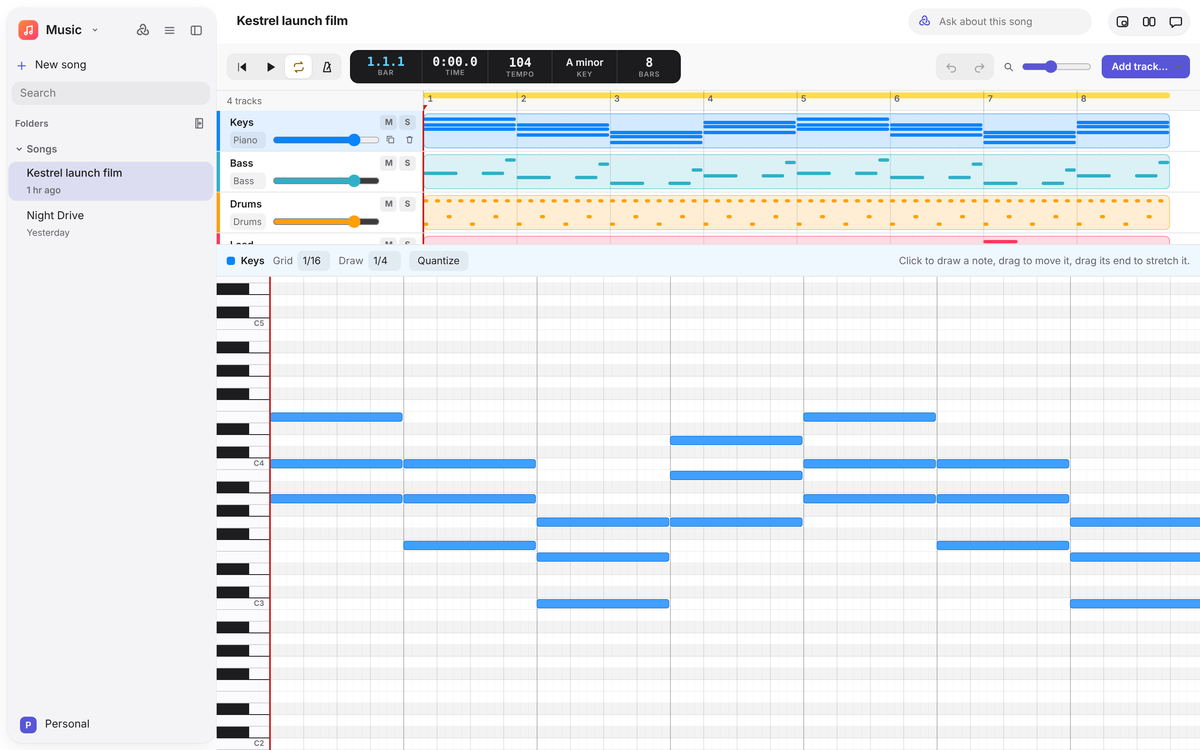
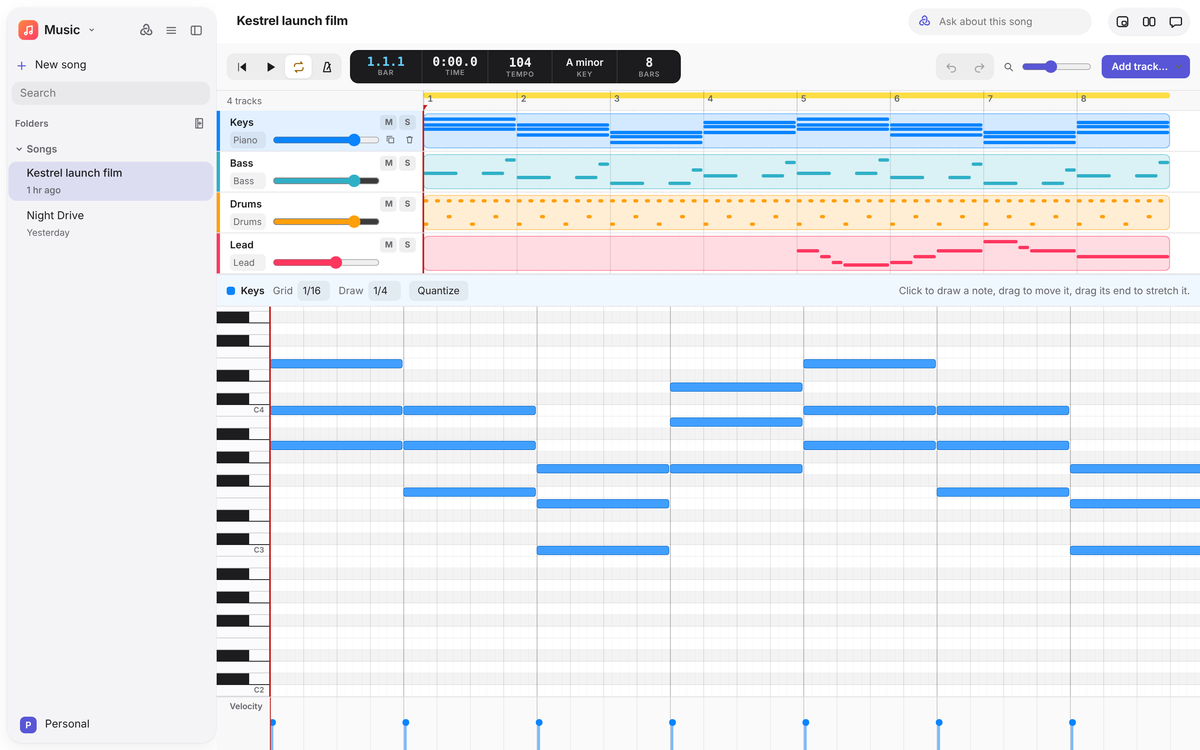
Music: the track list fits its tracks, taller drum rows, and a velocity lane
- The track list is as tall as its tracks (it was squeezed by the roll, hiding the last track), with a divider to drag or
  move with Up/Down, and Home to fit it again.
- Drum rows grow to fill the editor (26 to 40px) with each drum named in full.
- A velocity lane under the roll: a bar per note, dragged up or down; picked notes move together (nudgeVelocity).
- Unit tests for nudgeVelocity and fitTracks, an e2e for the lane, divider and drum rows; README picture and docs retaken.

Claude-Session: https://claude.ai/code/session_01VRGwo92y9AyxCvHYC61ZVd

diff --git a/apps/desktop/src/Studio.tsx b/apps/desktop/src/Studio.tsx
@@ -3,7 +3,7 @@ import { NotesSidebar, newItemIn, type SidebarWords } from './NotesSidebar';
 import { EmptyState } from './EmptyState';
 import { BEATS_PER_BAR, DRUMS, INSTRUMENTS, INSTRUMENT_NAMES, KEYS, changedTracks, freshTrackId, keyPitches, noteName, parseSong, writeSong, type Instrument, type Song, type SongNote, type Track } from './song-format';
 import { play, previewNote, type Player } from './studio-audio';
-import { GRIDS, addNote, duplicateNotes, isBlack, moveNotes, notesIn, pasteNotes, position, quantizeNotes, removeNotes, setVelocity, snap, stretchNotes, type Picked } from './studio-view';
+import { GRIDS, addNote, duplicateNotes, fitTracks, nudgeVelocity, isBlack, moveNotes, notesIn, pasteNotes, position, quantizeNotes, removeNotes, setVelocity, snap, stretchNotes, type Picked } from './studio-view';
 import { useFileReview } from './useFileReview';
 import type { NotesState } from './useNotes';
 import { ReviewActions, WhyThis } from './ReviewBar';
@@ -26,6 +26,13 @@ const ROW_H = 14;
 const MELODY_TOP = 84;
 const MELODY_BOTTOM = 36;
 const ZOOMS = [0.5, 0.75, 1, 1.5, 2, 3];
+/** Drums get taller rows and room for their names, since there are only a few of them. */
+const DRUM_ROW_H = 26;
+const DRUM_KEYS_W = 96;
+/** The velocity lane under the roll. */
+const VEL_H = 64;
+/** The least room left for the note editor when the track list is made taller. */
+const EDITOR_MIN = 200;
 
 const Icon = ({ d, fill }: { d: string; fill?: boolean }) => <svg viewBox="0 0 20 20" aria-hidden="true" data-fill={fill || undefined}><path d={d} /></svg>;
 const ICONS = {
@@ -83,6 +90,25 @@ export function StudioEditor({ songs, review }: { songs: NotesState; review?: { 
   // with the pointer captured by the roll it does not reach the note in every engine.
   const lastPress = useRef<{ i: number; t: number; x: number; y: number } | null>(null);
   const [box, setBox] = useState<{ b0: number; b1: number; r0: number; r1: number } | null>(null);
+  // How tall the track list is, once its divider has been dragged; until then it fits its tracks.
+  const [arrangeH, setArrangeH] = useState<number | null>(null);
+  const [scrollX, setScrollX] = useState(0);
+  // A drag on the velocity lane: which notes, and how much louder or softer so far.
+  const [velDrag, setVelDrag] = useState<{ these: Picked; y: number; by: number } | null>(null);
+  const page = useRef<HTMLElement>(null);
+  const [pageH, setPageH] = useState(840);
+  useEffect(() => {
+    const el = page.current;
+    if (!el) return;
+    // The room under the transport, which can wrap onto two lines in a narrow window.
+    const measure = () => setPageH(el.clientHeight - (el.querySelector<HTMLElement>('.studio-transport')?.offsetHeight ?? 52));
+    const ro = new ResizeObserver(measure);
+    ro.observe(el);
+    const bar = el.querySelector('.studio-transport');
+    if (bar) ro.observe(bar);
+    measure();
+    return () => ro.disconnect();
+  }, [song !== null]); // eslint-disable-line react-hooks/exhaustive-deps
   const [, setTick] = useState(0);
   const player = useRef<Player | null>(null);
   const roll = useRef<HTMLDivElement>(null);
@@ -204,6 +230,10 @@ export function StudioEditor({ songs, review }: { songs: NotesState; review?: { 
   const total = song.bars * BEATS_PER_BAR;
   const inKey = keyPitches(song.key);
   const drums = track?.instrument === 'drums';
+  // Drum rows grow to fill the editor (there are only six), up to a comfortable pad size.
+  const listFor = Math.max(96, Math.min(arrangeH ?? fitTracks(song.tracks.length), Math.max(96, pageH - EDITOR_MIN)));
+  const rowH = drums ? Math.max(DRUM_ROW_H, Math.min(40, Math.floor((pageH - listFor - 1 - 38 - VEL_H - 2) / DRUMS.length))) : ROW_H;
+  const keysW = drums ? DRUM_KEYS_W : KEYS_W;
   const rows = drums ? DRUMS.map((d) => ({ pitch: d.pitch, label: d.name, shade: false, black: false, c: true })) : Array.from({ length: MELODY_TOP - MELODY_BOTTOM + 1 }, (_, i) => MELODY_TOP - i).map((p) => ({ pitch: p, label: noteName(p), shade: !inKey.has(p % 12), black: isBlack(p), c: p % 12 === 0 }));
   const rowOf = (pitch: number) => rows.findIndex((r) => r.pitch === pitch);
   const rbw = ROLL_BEAT_W * zoom;
@@ -250,7 +280,7 @@ export function StudioEditor({ songs, review }: { songs: NotesState; review?: { 
   // ---------- The piano roll's pointer ----------
   const at = (e: { clientX: number; clientY: number }) => {
     const r = inner.current!.getBoundingClientRect();
-    return { beat: Math.max(0, Math.min(total - 1e-6, (e.clientX - r.left - KEYS_W) / rbw)), row: Math.max(0, Math.min(rows.length - 1, Math.floor((e.clientY - r.top) / ROW_H))) };
+    return { beat: Math.max(0, Math.min(total - 1e-6, (e.clientX - r.left - keysW) / rbw)), row: Math.max(0, Math.min(rows.length - 1, Math.floor((e.clientY - r.top) / rowH))) };
   };
   const onRollDown = (e: ReactPointerEvent<HTMLDivElement>) => {
     if (e.button !== 0 || !track) return;
@@ -287,7 +317,7 @@ export function StudioEditor({ songs, review }: { songs: NotesState; review?: { 
     if (!g) return;
     if (g.kind === 'move') {
       const db = Math.round((e.clientX - g.x) / rbw / grid) * grid;
-      const dr = Math.round((e.clientY - g.y) / ROW_H);
+      const dr = Math.round((e.clientY - g.y) / rowH);
       if (db !== g.db || dr !== g.dr || (!g.moved && Math.abs(e.clientX - g.x) + Math.abs(e.clientY - g.y) > 3)) setGesture({ ...g, db, dr, moved: g.moved || Math.abs(e.clientX - g.x) + Math.abs(e.clientY - g.y) > 3 });
     } else if (g.kind === 'stretch') {
       const dl = Math.round((e.clientX - g.x) / rbw / grid) * grid;
@@ -354,10 +384,43 @@ export function StudioEditor({ songs, review }: { songs: NotesState; review?: { 
   // While a note is dragged, the picked notes are drawn where they would land.
   const dragShift = gesture?.kind === 'move' && gesture.moved ? { db: gesture.db, dr: gesture.dr } : null;
   const dragStretch = gesture?.kind === 'stretch' ? gesture.dl : 0;
+  // The track list fits its tracks unless its divider was dragged, and always leaves the editor some room.
+  const room = pageH - EDITOR_MIN;
+  const listH = listFor;
+  const onDividerDown = (e: ReactPointerEvent<HTMLDivElement>) => {
+    if (e.button !== 0) return;
+    e.preventDefault();
+    e.currentTarget.setPointerCapture(e.pointerId);
+    const y = e.clientY, h = listH;
+    const el = e.currentTarget;
+    const move = (m: PointerEvent) => setArrangeH(Math.max(96, Math.min(h + m.clientY - y, Math.max(96, room))));
+    const up = () => { el.removeEventListener('pointermove', move); el.removeEventListener('pointerup', up); el.removeEventListener('pointercancel', up); };
+    el.addEventListener('pointermove', move);
+    el.addEventListener('pointerup', up);
+    el.addEventListener('pointercancel', up);
+  };
+  /** A press on a note's velocity bar: drag up for louder, down for softer; picked notes move together. */
+  const onVelDown = (e: ReactPointerEvent<HTMLElement>, i: number) => {
+    if (e.button !== 0) return;
+    e.preventDefault();
+    e.stopPropagation();
+    const these = picked.has(i) ? picked : new Set([i]);
+    if (!picked.has(i)) setPicked(e.shiftKey ? new Set([...picked, i]) : these);
+    e.currentTarget.setPointerCapture(e.pointerId);
+    setVelDrag({ these: e.shiftKey && !picked.has(i) ? new Set([...picked, i]) : these, y: e.clientY, by: 0 });
+  };
+  const onVelMove = (e: ReactPointerEvent<HTMLElement>) => { if (velDrag) setVelDrag({ ...velDrag, by: Math.round(((velDrag.y - e.clientY) / (VEL_H - 8)) * 100) / 100 }); };
+  const onVelUp = () => {
+    if (!velDrag) return;
+    if (velDrag.by !== 0) setNotes((n) => nudgeVelocity(n, velDrag.these, velDrag.by), 'velocity');
+    setVelDrag(null);
+  };
+  const shownVelocity = (j: number, v: number) => (velDrag && velDrag.these.has(j) ? Math.max(0, Math.min(1, v + velDrag.by)) : v);
+
   const velocity = pickedNotes.length ? pickedNotes.reduce((a, n) => a + n.velocity, 0) / pickedNotes.length : null;
 
   return (
-    <section className="studio-page" aria-label="Music">
+    <section className="studio-page" aria-label="Music" ref={page}>
       <div className="studio-transport" role="toolbar" aria-label="Transport">
         <div className="studio-buttons">
           <button type="button" className="studio-tbtn" aria-label="Go to start" title="Go to start (Return)" onClick={() => seek(0)}><Icon d={ICONS.start} fill /></button>
@@ -390,7 +453,7 @@ export function StudioEditor({ songs, review }: { songs: NotesState; review?: { 
           </select>
         </label>
       </div>
-      <div className="studio-arrange" data-empty={song.tracks.length === 0 || undefined} style={{ ['--head' as string]: `${HEAD_W}px` }}>
+      <div className="studio-arrange" data-empty={song.tracks.length === 0 || undefined} style={{ ['--head' as string]: `${HEAD_W}px`, height: listH }}>
         <div className="studio-ruler-row">
           <div className="studio-ruler-head">{song.tracks.length === 1 ? '1 track' : `${song.tracks.length} tracks`}</div>
           <div
@@ -446,6 +509,19 @@ export function StudioEditor({ songs, review }: { songs: NotesState; review?: { 
           <ReviewActions onKeep={keep} onDiscard={discard} />
         </div>
       )}
+      <div
+        className="studio-divider"
+        role="separator"
+        aria-orientation="horizontal"
+        aria-label="Resize tracks and notes"
+        aria-valuemin={96}
+        aria-valuemax={Math.max(96, room)}
+        aria-valuenow={Math.round(listH)}
+        tabIndex={0}
+        title="Drag to show more tracks or more notes"
+        onPointerDown={onDividerDown}
+        onKeyDown={(e) => { if (e.key === 'ArrowUp' || e.key === 'ArrowDown') { e.preventDefault(); setArrangeH(Math.max(96, Math.min(listH + (e.key === 'ArrowUp' ? -24 : 24), Math.max(96, room)))); } else if (e.key === 'Home') { e.preventDefault(); setArrangeH(null); } }}
+      />
       {track && (
         <div className="studio-editor" data-instrument={track.instrument}>
           <div className="studio-roll-bar" role="toolbar" aria-label="Notes">
@@ -462,18 +538,18 @@ export function StudioEditor({ songs, review }: { songs: NotesState; review?: { 
               </>
             ) : <span className="studio-hint">Click to draw a note, drag to move it, drag its end to stretch it.</span>}
           </div>
-          <div className="studio-roll" ref={roll} role="grid" aria-label={`Notes of ${track.name}`} aria-multiselectable="true" tabIndex={0} onKeyDown={onRollKey}>
+          <div className="studio-roll" ref={roll} role="grid" aria-label={`Notes of ${track.name}`} aria-multiselectable="true" tabIndex={0} onKeyDown={onRollKey} onScroll={(e) => setScrollX(e.currentTarget.scrollLeft)}>
             <div
               className="studio-roll-inner"
               ref={inner}
-              style={{ width: KEYS_W + total * rbw, height: rows.length * ROW_H }}
+              style={{ width: keysW + total * rbw, height: rows.length * rowH, ['--row' as string]: `${rowH}px`, ['--keys' as string]: `${keysW}px` }}
               onPointerDown={onRollDown}
               onPointerMove={onRollMove}
               onPointerUp={onRollUp}
               onPointerCancel={() => { setGesture(null); setBox(null); }}
             >
               {rows.map((r, i) => (
-                <div key={r.pitch} className="studio-row" role="row" data-shade={r.shade || undefined} data-black={r.black || undefined} style={{ top: i * ROW_H, height: ROW_H }}>
+                <div key={r.pitch} className="studio-row" role="row" data-shade={r.shade || undefined} data-black={r.black || undefined} style={{ top: i * rowH, height: rowH }}>
                   <span className="studio-key" role="rowheader" data-black={r.black || undefined} data-c={r.c || undefined} data-drum={drums || undefined} onPointerDown={(e) => { e.stopPropagation(); previewNote(track.instrument, r.pitch); }}>{r.label}</span>
                   <div
                     className="studio-row-cells"
@@ -496,7 +572,7 @@ export function StudioEditor({ songs, review }: { songs: NotesState; review?: { 
                           role="button"
                           aria-pressed={isPicked}
                           aria-label={`${r.label} at beat ${n.start + 1}, ${n.length} beats`}
-                          style={{ left, width, transform: isPicked && dragShift ? `translateY(${dragShift.dr * ROW_H}px)` : undefined, ['--vel' as string]: n.velocity }}
+                          style={{ left, width, transform: isPicked && dragShift ? `translateY(${dragShift.dr * rowH}px)` : undefined, ['--vel' as string]: n.velocity }}
                         >{width > 10 && <span className="studio-note-end" aria-hidden="true" />}</span>
                       );
                     })}
@@ -506,9 +582,35 @@ export function StudioEditor({ songs, review }: { songs: NotesState; review?: { 
               {box && (() => {
                 const [b0, b1] = box.b0 < box.b1 ? [box.b0, box.b1] : [box.b1, box.b0];
                 const [r0, r1] = box.r0 < box.r1 ? [box.r0, box.r1] : [box.r1, box.r0];
-                return <span className="studio-box" style={{ left: KEYS_W + b0 * rbw, width: (b1 - b0) * rbw, top: r0 * ROW_H, height: (r1 - r0 + 1) * ROW_H }} aria-hidden="true" />;
+                return <span className="studio-box" style={{ left: keysW + b0 * rbw, width: (b1 - b0) * rbw, top: r0 * rowH, height: (r1 - r0 + 1) * rowH }} aria-hidden="true" />;
               })()}
-              <span className="studio-playhead" style={{ left: KEYS_W + beat * rbw }} aria-hidden="true" />
+              <span className="studio-playhead" style={{ left: keysW + beat * rbw }} aria-hidden="true" />
+            </div>
+          </div>
+          <div className="studio-vel" role="group" aria-label={`Velocity of ${track.name}`} style={{ height: VEL_H, ['--keys' as string]: `${keysW}px` }}>
+            <span className="studio-vel-label" aria-hidden="true">Velocity</span>
+            <div className="studio-vel-inner" style={{ width: total * rbw, transform: `translateX(${-scrollX}px)`, backgroundSize: `${rbw}px 100%, ${rbw * BEATS_PER_BAR}px 100%` }} onPointerMove={onVelMove} onPointerUp={onVelUp} onPointerCancel={() => setVelDrag(null)}>
+              {notes.map((n, j) => {
+                const v = shownVelocity(j, n.velocity);
+                const label = drums ? (DRUMS.find((d) => d.pitch === n.pitch)?.name ?? noteName(n.pitch)) : noteName(n.pitch);
+                return (
+                  <span
+                    key={j}
+                    className="studio-vel-bar"
+                    role="slider"
+                    tabIndex={-1}
+                    aria-label={`Velocity of ${label} at beat ${n.start + 1}`}
+                    aria-valuemin={0}
+                    aria-valuemax={127}
+                    aria-valuenow={Math.round(v * 127)}
+                    data-picked={picked.has(j) || undefined}
+                    style={{ left: n.start * rbw, height: `${Math.max(2, v * (VEL_H - 8))}px` }}
+                    onPointerDown={(e) => onVelDown(e, j)}
+                    onKeyDown={(e) => { if (e.key !== 'ArrowUp' && e.key !== 'ArrowDown') return; e.preventDefault(); e.stopPropagation(); setNotes((ns) => nudgeVelocity(ns, picked.has(j) ? picked : new Set([j]), (e.key === 'ArrowUp' ? 1 : -1) * (e.shiftKey ? 0.1 : 1 / 127)), 'velocity'); }}
+                  />
+                );
+              })}
+              <span className="studio-playhead" style={{ left: beat * rbw }} aria-hidden="true" />
             </div>
           </div>
         </div>

diff --git a/apps/desktop/src/studio.css b/apps/desktop/src/studio.css
@@ -45,7 +45,7 @@
 .studio-page .studio-add select option { color: var(--ink); background: var(--bg); }
 
 /* ---------- Arrangement ---------- */
-.studio-page .studio-arrange { flex: 0 1 auto; max-height: 50%; min-height: 96px; overflow: auto; padding: 0; position: relative; }
+.studio-page .studio-arrange { flex: none; min-height: 96px; overflow: auto; padding: 0; position: relative; }
 .studio-ruler-row { position: sticky; top: 0; z-index: 4; display: grid; grid-template-columns: var(--head) max-content; height: 24px; background: color-mix(in srgb, var(--ink) 3%, var(--bg)); border-bottom: 0.5px solid var(--line); }
 .studio-ruler-head { position: sticky; left: 0; z-index: 1; display: flex; align-items: center; padding: 0 12px; background: inherit; border-right: 0.5px solid var(--line); font-size: 11px; color: var(--muted); }
 .studio-ruler { position: relative; height: 24px; cursor: pointer; outline: none; }
@@ -87,7 +87,13 @@
 .studio-page .studio-review { margin: 6px var(--sp-3); }
 
 /* ---------- Piano roll ---------- */
-.studio-editor { flex: 1 1 auto; min-height: 180px; display: flex; flex-direction: column; border-top: 0.5px solid var(--line); }
+.studio-editor { flex: 1 1 0; min-height: 0; display: flex; flex-direction: column; }
+/* The divider between the tracks and the notes: a hairline with a wider grab area, as in Logic's split. */
+.studio-divider { flex: none; position: relative; height: 1px; background: var(--line); cursor: row-resize; z-index: 5; touch-action: none; outline: none; }
+.studio-divider::before { content: ""; position: absolute; left: 0; right: 0; top: -4px; bottom: -4px; }
+.studio-divider::after { content: ""; position: absolute; left: 50%; top: -2px; width: 36px; height: 5px; margin-left: -18px; border-radius: 3px; background: color-mix(in srgb, var(--ink) 18%, transparent); opacity: 0; transition: opacity var(--dur-fast) var(--ease); }
+.studio-divider:hover::after, .studio-divider:focus-visible::after { opacity: 1; }
+.studio-divider:focus-visible { background: var(--accent); }
 .studio-roll-bar { flex: none; display: flex; align-items: center; gap: 10px; height: 38px; padding: 0 var(--sp-3); border-bottom: 0.5px solid var(--line); background: color-mix(in srgb, var(--tc) 6%, var(--bg)); font-size: var(--fs-sm); }
 .studio-roll-title { display: inline-flex; align-items: center; gap: 7px; font-weight: 600; white-space: nowrap; }
 .studio-field { display: inline-flex; align-items: center; gap: 6px; color: var(--muted); white-space: nowrap; }
@@ -99,7 +105,7 @@
 .studio-picked { font-weight: 600; white-space: nowrap; }
 .studio-hint { color: var(--muted); white-space: nowrap; overflow: hidden; text-overflow: ellipsis; }
 
-.studio-page .studio-roll { flex: 1 1 auto; min-height: 0; overflow: auto; border-top: 0; outline: none; background: var(--bg); }
+.studio-page .studio-roll { flex: 0 1 auto; min-height: 0; overflow: auto; border-top: 0; outline: none; background: var(--bg); }
 .studio-page .studio-roll-inner { position: relative; touch-action: none; user-select: none; }
 .studio-page .studio-row { position: absolute; left: 0; right: 0; display: flex; }
 .studio-page .studio-row[data-shade] .studio-row-cells { background-color: color-mix(in srgb, var(--ink) 3.5%, transparent); }
@@ -112,11 +118,11 @@
     linear-gradient(90deg, color-mix(in srgb, var(--ink) 22%, transparent) 1px, transparent 1px);
 }
 /* The keyboard: white keys with black ones short and dark, C named on each octave. */
-.studio-key { position: sticky; left: 0; z-index: 2; flex: none; width: 64px; height: 100%; padding-right: 6px; box-sizing: border-box; text-align: right; font: 600 9px/14px var(--font); color: transparent; background: #fbfbfd; border-bottom: 0.5px solid #d2d2d7; border-right: 0.5px solid var(--line); cursor: pointer; }
+.studio-key { position: sticky; left: 0; z-index: 2; flex: none; width: var(--keys, 64px); height: 100%; padding-right: 6px; box-sizing: border-box; text-align: right; font: 600 9px/var(--row, 14px) var(--font); color: transparent; background: #fbfbfd; border-bottom: 0.5px solid #d2d2d7; border-right: 0.5px solid var(--line); cursor: pointer; }
 .studio-key[data-c] { color: #6e6e73; }
 .studio-key[data-black] { background: linear-gradient(90deg, #1d1d1f 0 62%, #fbfbfd 62%); border-bottom-color: #1d1d1f; }
 .studio-key:active { background: color-mix(in srgb, var(--tc) 30%, #fbfbfd); }
-.studio-key[data-drum] { padding: 0 8px; text-align: left; font: 500 10.5px/14px var(--font); color: var(--ink); background: color-mix(in srgb, var(--ink) 3%, var(--bg)); border-bottom-color: var(--line); }
+.studio-key[data-drum] { padding: 0 10px; text-align: left; white-space: nowrap; overflow: hidden; text-overflow: ellipsis; font: 500 12px/var(--row, 26px) var(--font); color: var(--ink); background: color-mix(in srgb, var(--ink) 3%, var(--bg)); border-bottom-color: var(--line); }
 .studio-page .studio-note { position: absolute; top: 1px; bottom: 1px; border-radius: 3px; background: color-mix(in srgb, var(--tc) calc(45% + var(--vel, 0.8) * 55%), var(--bg)); box-shadow: inset 0 0 0 0.5px color-mix(in srgb, var(--tc) 70%, #000); cursor: grab; }
 /* The end of a note, to drag to stretch it. */
 .studio-page .studio-note-end { position: absolute; top: 0; right: 0; bottom: 0; width: 7px; cursor: ew-resize; }
@@ -133,6 +139,17 @@
 :root[data-theme="dark"] .studio-key[data-c] { color: #aeaeb2; }
 :root[data-theme="dark"] .studio-key[data-black] { background: linear-gradient(90deg, #0b0b0c 0 62%, #3a3a3c 62%); }
 :root[data-theme="dark"] .studio-key[data-drum] { background: color-mix(in srgb, var(--ink) 4%, var(--bg)); color: var(--ink); }
+
+/* The velocity lane: one bar per note, taller for louder, under the roll and scrolled with it. */
+.studio-page .studio-vel { flex: none; position: relative; overflow: hidden; border-top: 0.5px solid var(--line); background: color-mix(in srgb, var(--ink) 2%, var(--bg)); }
+.studio-vel-label { position: absolute; left: 0; top: 0; bottom: 0; z-index: 2; width: var(--keys, 64px); box-sizing: border-box; padding: 6px 8px 0 0; text-align: right; font: 600 10px/1 var(--font); color: var(--muted); background: color-mix(in srgb, var(--ink) 3%, var(--bg)); border-right: 0.5px solid var(--line); }
+.studio-vel-inner { position: absolute; top: 0; bottom: 0; left: var(--keys, 64px); background-image: linear-gradient(90deg, color-mix(in srgb, var(--ink) 6%, transparent) 1px, transparent 1px), linear-gradient(90deg, color-mix(in srgb, var(--ink) 16%, transparent) 1px, transparent 1px); }
+.studio-page .studio-vel-bar { position: absolute; bottom: 0; width: 3px; margin-left: 1px; border-radius: 2px 2px 0 0; background: color-mix(in srgb, var(--tc) 55%, var(--bg)); cursor: ns-resize; touch-action: none; outline: none; }
+/* A round head on each bar, like Logic's velocity stems; a wider invisible grab area around the thin line. */
+.studio-page .studio-vel-bar::before { content: ""; position: absolute; left: -5px; right: -5px; top: -6px; bottom: 0; }
+.studio-page .studio-vel-bar::after { content: ""; position: absolute; top: -3px; left: -2.5px; width: 8px; height: 8px; border-radius: 50%; background: var(--tc); }
+.studio-page .studio-vel-bar[data-picked] { background: var(--tc); }
+.studio-page .studio-vel-bar[data-picked]::after { box-shadow: 0 0 0 2px var(--bg), 0 0 0 3.5px var(--tc); }
 
 /* ---------- Empty ---------- */
 .studio-empty { display: grid; justify-items: center; gap: 6px; max-width: 340px; text-align: center; color: var(--muted); font-size: var(--fs-sm); }

diff --git a/apps/desktop/e2e/studio.spec.ts b/apps/desktop/e2e/studio.spec.ts
@@ -129,3 +129,36 @@ test('a part from Mobius is a new track of notes, dashed until kept or discarded
   await expect.poll(() => saved().tracks.map((t) => t.id)).toEqual(['t1']);
   await expect(tracks().getByRole('listitem', { name: 'Bass' })).toHaveCount(0);
 });
+
+test('velocity is drawn under the roll and dragged per note; the track list fits its tracks and resizes', async () => {
+  fs.writeFileSync(file(), JSON.stringify({ ...SONG, tracks: [...SONG.tracks, BASS] }));
+  await start();
+  await resizeWindow(mobius!.app, 1440, 900);
+  await expect(tracks().getByRole('listitem', { name: 'Bass' })).toBeInViewport();
+  // Each note has a bar in the velocity lane; dragging one up makes that note louder and leaves the others alone.
+  const lane = shell().getByRole('group', { name: 'Velocity of Keys' });
+  const bar = lane.getByRole('slider', { name: 'Velocity of A3 at beat 1', exact: true });
+  await expect(bar).toHaveAttribute('aria-valuenow', String(Math.round(0.7 * 127)));
+  const box = (await bar.boundingBox())!;
+  await shell().mouse.move(box.x + box.width / 2, box.y + 4);
+  await shell().mouse.down();
+  await shell().mouse.move(box.x + box.width / 2, box.y - 8, { steps: 4 });
+  await shell().mouse.up();
+  await expect.poll(() => saved().tracks[0]!.notes.find((n) => n.pitch === 57)!.velocity).toBeGreaterThan(0.7);
+  expect(saved().tracks[0]!.notes.find((n) => n.pitch === 60)!.velocity).toBe(0.7);
+  await shell().keyboard.press('Control+z');
+  await expect.poll(() => saved().tracks[0]!.notes.find((n) => n.pitch === 57)!.velocity).toBe(0.7);
+  // The divider gives the notes more room from the keyboard, and Home fits the list to its tracks again.
+  const divider = shell().getByRole('separator', { name: 'Resize tracks and notes' });
+  const fit = Number(await divider.getAttribute('aria-valuenow'));
+  await divider.focus();
+  await shell().keyboard.press('ArrowUp');
+  await expect(divider).toHaveAttribute('aria-valuenow', String(Math.max(96, fit - 24)));
+  await shell().keyboard.press('Home');
+  await expect(divider).toHaveAttribute('aria-valuenow', String(fit));
+  // Drums get rows tall enough to name each drum in full.
+  await tracks().getByRole('listitem', { name: 'Bass' }).click();
+  await shell().getByRole('combobox', { name: 'Add a track' }).selectOption('drums');
+  const head = shell().getByRole('grid', { name: 'Notes of Drums' }).getByRole('rowheader', { name: 'Closed hat' });
+  expect((await head.boundingBox())!.height).toBeGreaterThanOrEqual(26);
+});

diff --git a/apps/desktop/src/studio-view.test.ts b/apps/desktop/src/studio-view.test.ts
@@ -1,5 +1,5 @@
 import { describe, expect, it } from 'vitest';
-import { addNote, duplicateNotes, moveNotes, notesIn, pasteNotes, position, quantizeNotes, removeNotes, setVelocity, snap, stretchNotes } from './studio-view';
+import { addNote, fitTracks, nudgeVelocity, duplicateNotes, moveNotes, notesIn, pasteNotes, position, quantizeNotes, removeNotes, setVelocity, snap, stretchNotes } from './studio-view';
 
 const n = (pitch: number, start: number, length = 1, velocity = 0.8) => ({ pitch, start, length, velocity });
 const notes = [n(57, 0, 4), n(60, 0, 4), n(64, 4)];
@@ -44,5 +44,17 @@ describe('editing notes on the roll', () => {
   it('shows the position as bars and time', () => {
     expect(position(0, 120)).toEqual({ bars: '1.1.1', time: '0:00.0' });
     expect(position(5.5, 120)).toEqual({ bars: '2.2.3', time: '0:02.8' });
+  });
+});
+
+describe('velocity lane and track list', () => {
+  it('nudges picked notes by the same amount, keeping each between 0 and 1', () => {
+    const vs = [n(60, 0, 1, 0.5), n(62, 1, 1, 0.95), n(64, 2, 1, 0.1)];
+    expect(nudgeVelocity(vs, new Set([0, 1]), 0.1).map((x) => x.velocity)).toEqual([0.6, 1, 0.1]);
+    expect(nudgeVelocity(vs, new Set([2]), -0.5)[2]!.velocity).toBe(0);
+  });
+  it('fits the track list to its tracks', () => {
+    expect(fitTracks(4)).toBe(24 + 4 * 49);
+    expect(fitTracks(0)).toBe(24 + 49);
   });
 });

diff --git a/apps/desktop/src/studio-view.ts b/apps/desktop/src/studio-view.ts
@@ -87,6 +87,14 @@ export function setVelocity(notes: readonly SongNote[], picked: Picked, velocity
   return notes.map((n, i) => (picked.has(i) ? { ...n, velocity: v } : n));
 }
 
+/** The picked notes made louder or softer by `by` (−1 to 1), each kept between 0 and 1, so a group keeps its accents. */
+export function nudgeVelocity(notes: readonly SongNote[], picked: Picked, by: number): SongNote[] {
+  return notes.map((n, i) => (picked.has(i) ? { ...n, velocity: round(Math.max(0, Math.min(1, n.velocity + by))) } : n));
+}
+
+/** How tall the track list is when it fits its tracks: the ruler plus one lane each, at least room for one. */
+export const fitTracks = (tracks: number, ruler = 24, lane = 49) => ruler + Math.max(1, tracks) * lane;
+
 /** The notes inside a box drawn on the roll, from beat `b0` to `b1` and pitch `p0` to `p1` (either way round). */
 export function notesIn(notes: readonly SongNote[], b0: number, b1: number, p0: number, p1: number): Set<number> {
   const [s, e] = b0 < b1 ? [b0, b1] : [b1, b0];

diff --git a/docs/apps/create.md b/docs/apps/create.md
@@ -53,7 +53,11 @@ A small studio for writing songs as notes.
 
 - **Tracks** laid out by bar, each with an instrument (Piano, Bass, Pad, Lead or Drums), volume, mute and solo.
 - **The piano roll** for the chosen track: draw, move and stretch notes, select with a box, snap to the grid. Drums
-  get a lane per drum.
+  get a tall row per drum, named in full.
+- **Velocity lane** under the roll: one bar per note. Drag a bar up to make the note louder, down to make it softer;
+  picked notes move together.
+- **The divider** between the tracks and the roll: the track list fits its tracks, and dragging the divider (or
+  Up and Down on it) gives more room to either side. Home fits it to the tracks again.
 - **Transport** to play, with the song's tempo and key.
 - Mobius writes songs as notes, never audio. A song is a JSON file it can read and write like a score.
 
